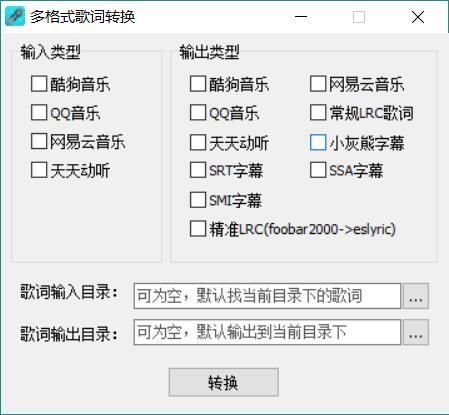
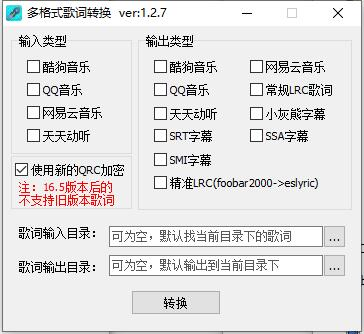
v1.2.7

diff --git a/README.md b/README.md
@@ -15,9 +15,18 @@
 
 **如遇360或者QQ管家报“隐私”什么的警告请选择信任。因为我并没有干啥，所以我对于这些软件弹出的警告信息也很无奈。言尽于此。**
 
-**如遇不能打开程序，请确认是否安装了vs2010运行库，如果没有请下载vs2010运行库进行安装，或者单独下载msvcp100.dll、msvcr100.dll两个动态链接库。**   
-
 ## 更新日志
+
+---
+ 2019-12-25  
+    v1.2.7  
+	
+1、增加KRC和QRC之间的【罗马音】和【翻译】歌词互转。   
+2、加密歌词查看界面支持直接拖放文件。  
+3、转换时过滤掉不需要转换的歌词。  
+4、支持保存/转换时自由切换QRC加密格式。  
+5、优化程序，尽量减少被杀毒软件误杀问题。  
+
 
 ---
  2019-12-21  
@@ -96,8 +105,8 @@
 下载最近版本中的“附件： LyricToolsBin.zip”，地址：  https://gitee.com/ying32/MakeLyric/releases   
 
 或者使用百度盘下载
-链接：https://pan.baidu.com/s/1uxtMiTuD_G7pJorUspXPQA 
-提取码：zdtw 
+链接：https://pan.baidu.com/s/1ocSWzlDrAFdP6WR-OF9GjQ 
+提取码：txs5
  
 
 主界面：   
